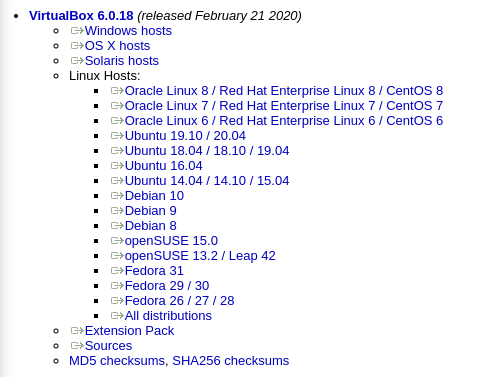
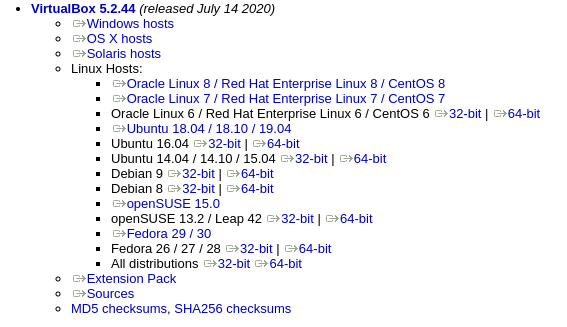
cambio la versión de vb recomendada a 5.2

Changed region(s): [[0.0, 0.0, 0.9548, 0.9786]]

diff --git a/docs/primeros-pasos/entorno-linux.md b/docs/primeros-pasos/entorno-linux.md
@@ -47,7 +47,7 @@ Primero, debemos instalar VirtualBox, el software de virtualización que
 utilizamos para correr las máquinas virtuales de la cátedra.
 
 Como las VMs ya tienen unos años, recomendamos utilizar la versión
-[6.0.18](https://www.virtualbox.org/wiki/Download_Old_Builds_6_0):
+[5.2](https://www.virtualbox.org/wiki/Download_Old_Builds_5_2):
 
 ![virtualbox-00](/img/primeros-pasos/linux/virtualbox-00.png)
 
